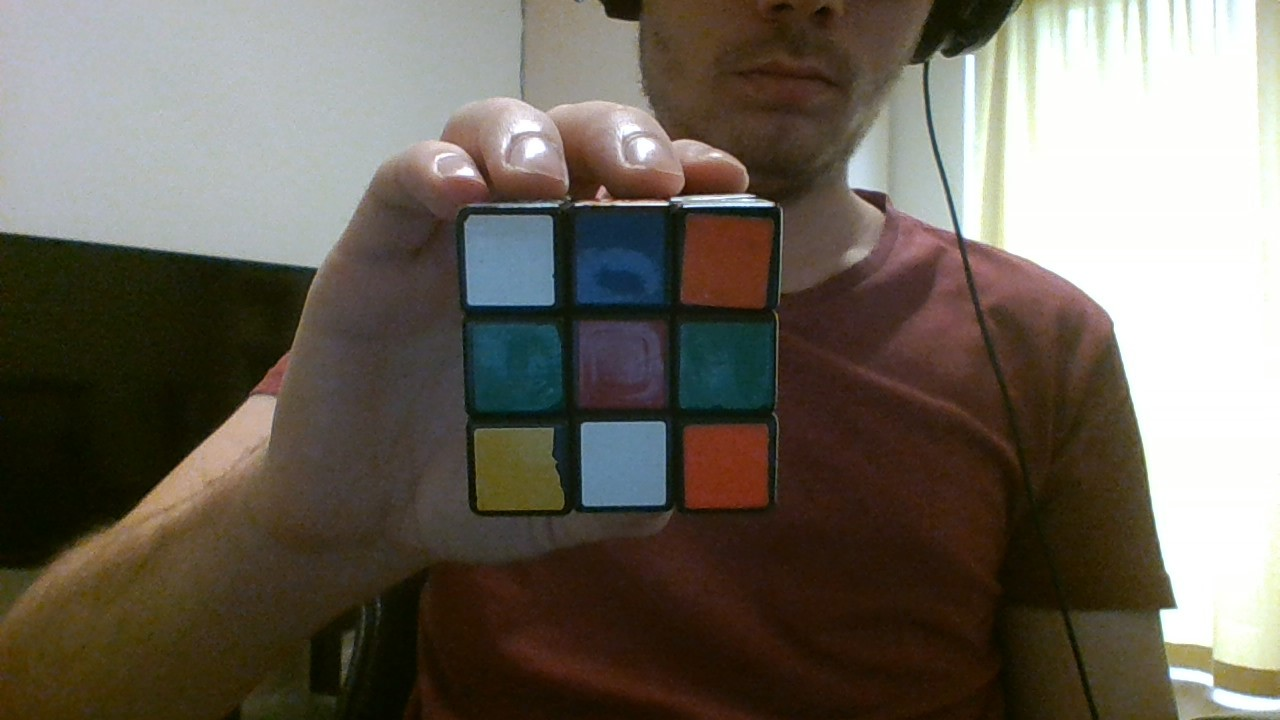
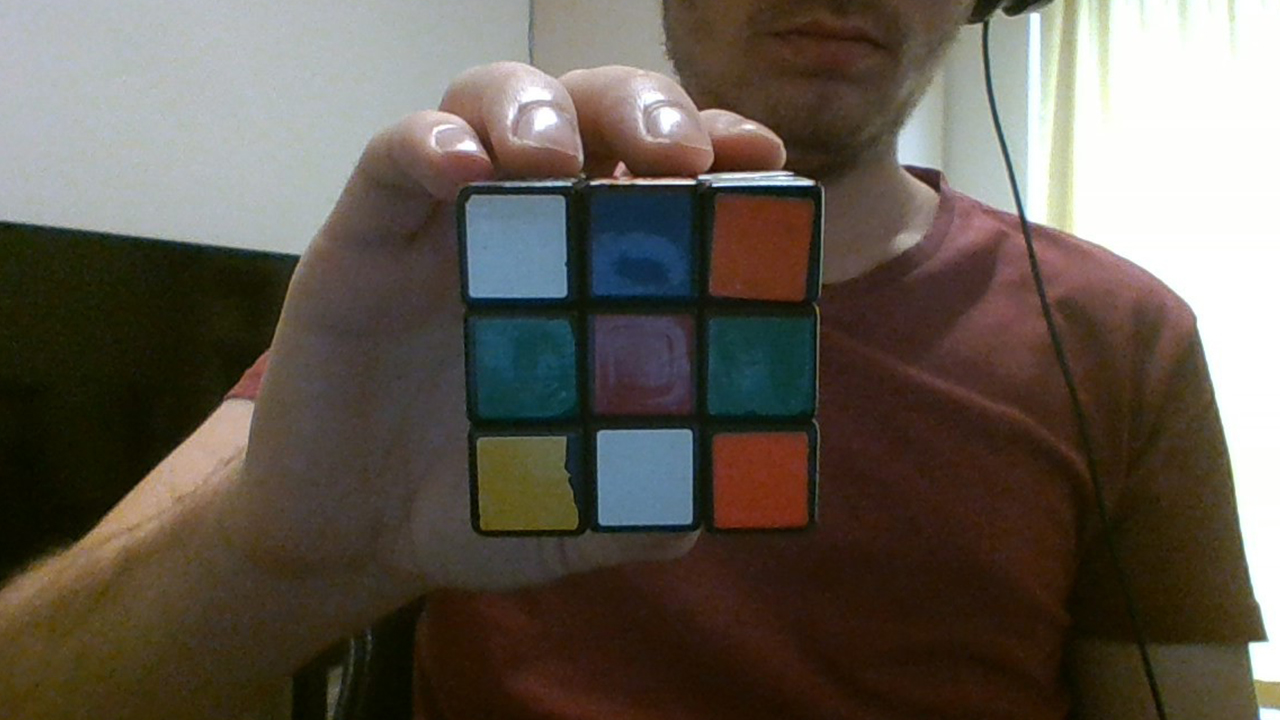
Cube- und Farberkennung läuft

diff --git a/AlphaTests/CubeScan/ImageProcessing/ImageProcessing.java b/AlphaTests/CubeScan/ImageProcessing/ImageProcessing.java
@@ -5,32 +5,32 @@ import org.opencv.core.*;
 import org.opencv.features2d.FeatureDetector;
 import org.opencv.imgproc.Imgproc;
 import java.util.*;
+import static org.opencv.imgproc.Imgproc.rectangle;
 
 public class ImageProcessing implements Observer {
 
     private CubeScanModel model;
 
-    /*
-    private void processBinaryImage() {
-        Mat processMat = model.getOriginalImage().clone();
-        Imgproc.GaussianBlur(doMask(processMat), processMat, new Size(model.getGaBl(), model.getGaBl()), model.getGaBl(), model.getGaBl());
-        Imgproc.medianBlur(processMat, processMat, model.getMeBl());
-        Core.inRange(processMat,
-                new Scalar(model.getGridColors()[2][2].val[0] - 5, model.getGridColors()[2][2].val[1] - 30, model.getGridColors()[2][2].val[2] - 30),
-                new Scalar(model.getGridColors()[2][2].val[0] + 5, model.getGridColors()[2][2].val[1] + 30, model.getGridColors()[2][2].val[2] + 30), processMat);
-        model.setBinaryImage(processMat);
-    }
-    */
+    private int meanColorRect = 60; //TODO Ins Model, meanColorRect % 2 != 0
+
 
     private void readColorsFromGrid() {
-
         Mat frameOfWebcamStream = model.getOriginalImage();
-        double[] color = new double[3];
         Scalar[][] colors = new Scalar[3][3];
         for (int x = 0; x < 3; x++) {
             for (int y = 0; y < 3; y++) {
-                for (int i = 0; i < 3; i++) color[i] = frameOfWebcamStream.get((int)model.getSearchPointGrid()[x][y].y, (int)model.getSearchPointGrid()[x][y].x)[i];
-                colors[x][y] = new Scalar(color[0], color[1], color[2]);
+                Point searchPoint = model.getSearchPointGrid()[x][y];
+                if (model.isUseMeanColor()) {
+                    Mat mask = new Mat(frameOfWebcamStream.height(), frameOfWebcamStream.width(), CvType.CV_8U, new Scalar(0));
+                    rectangle(mask, new Point((int)searchPoint.x - meanColorRect / 2, (int)searchPoint.y - meanColorRect / 2), new Point((int)searchPoint.x + 25, (int)searchPoint.y + 25), new Scalar(255), Core.FILLED);
+                    colors[x][y] = Core.mean(frameOfWebcamStream, mask);
+                } else {
+                    colors[x][y] = new Scalar(
+                            frameOfWebcamStream.get((int) searchPoint.y, (int) searchPoint.x)[0],
+                            frameOfWebcamStream.get((int) searchPoint.y, (int) searchPoint.x)[1],
+                            frameOfWebcamStream.get((int) searchPoint.y, (int) searchPoint.x)[2]
+                    );
+                }
             }
         }
         model.setGridColors(colors);
@@ -40,25 +40,30 @@ public class ImageProcessing implements Observer {
         Mat frameOfWebcamStream = model.getOriginalImage();
         Mat[][] binaryMatArray = new Mat[3][3];
         Mat[][] blobMatArray = new Mat[3][3];
-        int[][] totalFoundBlobs = new int[3][3];
-        List<KeyPoint> foundBlobs;
         MatOfKeyPoint keypoints = new MatOfKeyPoint();
+        List<KeyPoint>[][] totalBlobList = new List[3][3];
         FeatureDetector detector = FeatureDetector.create(FeatureDetector.SIMPLEBLOB);
         detector.read("src/AlphaTests/CubeScan/Resources/SavedData/blobdetectorparams1.xml");
 
         for (int x = 0; x < 3; x++) {
+
             for (int y = 0; y < 3; y++) {
+
+                List<KeyPoint> blobList;
 
                 //Apply mask to image
                 Mat mask = new Mat(frameOfWebcamStream.size(), CvType.CV_8U, new Scalar(0));
-                Imgproc.rectangle(mask, model.getFrameOrigin(), new Point(model.getFrameOrigin().x + model.getSearchFrameSize(),  model.getFrameOrigin().y + model.getSearchFrameSize()), new Scalar(255), Core.FILLED);
+                Imgproc.rectangle(mask, model.getFrameOrigin(), new Point(model.getFrameOrigin().x + model.getSearchFrameSize(), model.getFrameOrigin().y + model.getSearchFrameSize()), new Scalar(255), Core.FILLED);
                 Mat processedFrame = new Mat(frameOfWebcamStream.size(), CvType.CV_8U, new Scalar(0));
                 Imgproc.cvtColor(processedFrame, processedFrame, Imgproc.COLOR_GRAY2BGR);
                 frameOfWebcamStream.copyTo(processedFrame, mask);
 
+                //TODO Blur-Filter dauern lange
+                //TODO Für jedes Bild ein Rangeslider-paar
                 //Image Operations
-                if (model.getGaBl() != 0) Imgproc.GaussianBlur(processedFrame, processedFrame, new Size(model.getGaBl(), model.getGaBl()), model.getGaBl(), model.getGaBl());
-                if (model.getMeBl() != 0) Imgproc.medianBlur(processedFrame, processedFrame, model.getMeBl()); //TODO Median Blur dauert lange
+                if (model.getGaBl() != 0)
+                    Imgproc.GaussianBlur(processedFrame, processedFrame, new Size(model.getGaBl(), model.getGaBl()), model.getGaBl(), model.getGaBl());
+                if (model.getMeBl() != 0) Imgproc.medianBlur(processedFrame, processedFrame, model.getMeBl());
                 Core.inRange(processedFrame,
                         //new Scalar(model.getLoHu(), model.getLoSa(), model.getLoVa()),
                         //new Scalar(model.getHiHu(), model.getHiSa(), model.getHiVa()), processedFrame);
@@ -66,75 +71,65 @@ public class ImageProcessing implements Observer {
                         new Scalar(model.getGridColors()[x][y].val[0] + 20, model.getGridColors()[x][y].val[1] + 70, model.getGridColors()[x][y].val[2] + 70), processedFrame);
                 binaryMatArray[x][y] = processedFrame;
 
-                System.out.println("loHu: " + model.getLoHu() + ", loSa: " + model.getLoSa() + ", loVa: " + model.getLoVa());
-                System.out.println("hiHu: " + model.getHiHu() + ", hiSa: " + model.getHiSa() + ", hiVa: " + model.getHiVa());
-                System.out.println("");
-
                 //Detect Blobs
                 detector.detect(processedFrame, keypoints);
-                foundBlobs = keypoints.toList();
+                blobList = keypoints.toList();
                 Mat blobMat = model.getOriginalImage().clone();
-                for (KeyPoint foundBlob : foundBlobs) Imgproc.circle(blobMat, foundBlob.pt, (int) foundBlob.size / 2, new Scalar(0, 0, 255), 1);
-                totalFoundBlobs[x][y] = foundBlobs.size();
+                for (KeyPoint foundBlob : blobList) Imgproc.circle(blobMat, foundBlob.pt, (int) foundBlob.size / 2, new Scalar(0, 0, 255), 1);
                 Imgproc.cvtColor(blobMat, blobMat, Imgproc.COLOR_HSV2BGR);
                 blobMatArray[x][y] = blobMat;
+
+                totalBlobList[x][y] = blobList;
             }
         }
+
+        int counter = 0;
+
+        for (int x = 0; x < 3; x++) {
+            for (int y = 0; y < 3; y++) {
+                for (int i = 0; i < totalBlobList[x][y].size(); i++) {
+                    Point BlobPosition = totalBlobList[x][y].get(i).pt;
+                    Point girdPos = model.getSearchPointGrid()[x][y];
+
+                    if (BlobPosition.x < girdPos.x - meanColorRect / 2) continue;
+                    if (BlobPosition.x > girdPos.x + meanColorRect / 2) continue;
+                    if (BlobPosition.y < girdPos.y - meanColorRect / 2) continue;
+                    if (BlobPosition.y > girdPos.y + meanColorRect / 2) continue;
+                    counter++;
+                }
+            }
+        }
+
+        if (counter > 7) {
+            System.out.println("-------------------------------");
+            System.out.println("Cube found: " + counter + " / 9");
+            System.out.print("\n");
+            for (int x = 0; x < 3; x++) {
+                for (int y = 0; y < 3; y++) {
+                    System.out.print(colorDetection(model.getGridColors()[x][y]));
+                    if (y < 2) System.out.print(", ");
+                }
+                System.out.print("\n");
+            }
+            System.out.println("-------------------------------");
+        }
+        else System.out.println("No Cube found: " + counter + " / 9");
+
         model.setBinaryImages(binaryMatArray);
         model.setBlobImages(blobMatArray);
-        model.setFoundBlobs(totalFoundBlobs);
         model.updateImageViews();
     }
 
-    /*
-    private void blobDetector() {
-        Mat binaryMat = model.getBinaryImage().clone();
-        Mat blobMat = model.getOriginalImage().clone();
-        List<KeyPoint> foundBlobs;
-        FeatureDetector detector = FeatureDetector.create(FeatureDetector.SIMPLEBLOB);
-        detector.read("src/AlphaTests/CubeScan/Resources/SavedData/blobdetectorparams1.xml");
-        MatOfKeyPoint keypoints = new MatOfKeyPoint();
-        detector.detect(binaryMat, keypoints);
-        foundBlobs = keypoints.toList();
-        model.setFoundBlobs(foundBlobs.size());
-        keypoints.release();
-        for (int i = 0; i < foundBlobs.size(); i++) Imgproc.circle(blobMat, foundBlobs.get(i).pt, (int)foundBlobs.get(i).size/2, new Scalar(100, 100, 100), 2);
-        model.setBlobImage(blobMat);
+    private String colorDetection(Scalar color) {
+        if (color.val[1] < 100 && color.val[2] > 120) return "WHITE";
+        else if (color.val[0] < 5) return "RED";
+        else if (color.val[0] < 15) return "ORANGE";
+        else if (color.val[0] < 34) return "YELLOW";
+        else if (color.val[0] < 100) return "GREEN";
+        else if (color.val[0] < 128) return "BLUE";
+        else if (color.val[0] < 181) return "RED";
+        return "NO COLOR DETECTED";
     }
-    */
-
-    /*
-    private Mat doMask(Mat inputMat) {
-        Mat mask = new Mat(inputMat.size(), CvType.CV_8U, new Scalar(0));
-        Imgproc.rectangle(mask, model.getFrameOrigin(), new Point(model.getFrameOrigin().x + 350,  model.getFrameOrigin().y + 350), new Scalar(255), Core.FILLED);
-
-        Mat outputMat = new Mat(inputMat.size(), CvType.CV_8U, new Scalar(0));
-
-        mask.convertTo(mask, CvType.CV_8U);
-        inputMat.convertTo(inputMat, CvType.CV_8U);
-        Imgproc.cvtColor(outputMat, outputMat, COLOR_GRAY2BGR);
-
-        inputMat.copyTo(outputMat, mask);
-        return outputMat;
-    }
-    */
-
-    /*
-    private void getGridColors() {
-        Mat mat = model.getOriginalImage().clone();
-        Scalar[][] colors = new Scalar[3][3];
-        for (int x = 0; x < 3; x++) {
-            for (int y = 0; y < 3; y++) {
-                double[] color = new double[3];
-                for (int i = 0; i < 3; i++) {
-                    color[i] = mat.get((int)model.getSearchPointGrid()[x][y].y, (int)model.getSearchPointGrid()[x][y].x)[i];
-                }
-                colors[x][y] = new Scalar(color[0], color[1], color[2]);
-            }
-        }
-        model.setGridColors(colors);
-    }
-    */
 
     @Override
     public void update(Observable o, Object arg) {

diff --git a/AlphaTests/CubeScan/Models/CubeScanModel.java b/AlphaTests/CubeScan/Models/CubeScanModel.java
@@ -1,25 +1,29 @@
 package AlphaTests.CubeScan.Models;
 
+import org.opencv.core.KeyPoint;
 import org.opencv.core.Mat;
 import org.opencv.core.Point;
 import org.opencv.core.Scalar;
+
+import java.util.List;
 import java.util.Observable;
 
 public class CubeScanModel extends Observable {
 
-    private Point frameOrigin = new Point(432, 181);
+    private Point frameOrigin = new Point(466, 185);
     private int searchFrameSize = 350;
     private Point[][] searchPointGrid = new Point[][] {
-            {new Point(507, 242), new Point(620, 242), new Point(731, 242)},
-            {new Point(507, 359), new Point(620, 359), new Point(731, 359)},
-            {new Point(507, 475), new Point(620, 475), new Point(731, 475)}
+            {new Point(524, 243), new Point(640, 243), new Point(757, 243)},
+            {new Point(524, 359), new Point(640, 359), new Point(757, 359)},
+            {new Point(524, 477), new Point(640, 477), new Point(757, 477)}
     };
     private Scalar[][] gridColors = new Scalar[3][3];
     private int loHu, hiHu, loSa, hiSa, loVa, hiVa;
     private int gaBl = 5, meBl = 5;
-    private int[][] foundBlobs;
+    private List<List<KeyPoint>> foundBlobsList;
     private Mat originalImage;
     private Mat[][] blobImages, binaryImages;
+    private boolean useMeanColor = true;
 
 
     public void loadNewImage() {
@@ -85,13 +89,6 @@ public class CubeScanModel extends Observable {
         this.meBl = value;
     }
 
-    public int[][] getFoundBlobs() {
-        return this.foundBlobs;
-    }
-    public void setFoundBlobs(int[][] array) {
-        this.foundBlobs = array;
-    }
-
     public Mat getOriginalImage() {
         return this.originalImage;
     }
@@ -132,6 +129,24 @@ public class CubeScanModel extends Observable {
         this.gridColors = colors;
         setChanged();
         notifyObservers("updateSlider");
+    }
+
+    public List<List<KeyPoint>> getFoundBlobsList() {
+        return foundBlobsList;
+    }
+    public void setFoundBlobsList(List<List<KeyPoint>> foundBlobsList) {
+        this.foundBlobsList = foundBlobsList;
+    }
+
+    public boolean isUseMeanColor() {
+        return useMeanColor;
+    }
+    public void setUseMeanColor(boolean useMeanColor) {
+        this.useMeanColor = useMeanColor;
+        setChanged();
+        notifyObservers("readColorsFromGrid");
+        setChanged();
+        notifyObservers("processImages");
     }
 
     public void updateImageViews() {

diff --git a/AlphaTests/CubeScan/GUI/CubeScanController.java b/AlphaTests/CubeScan/GUI/CubeScanController.java
@@ -41,7 +41,7 @@ public class CubeScanController implements Observer, Initializable {
     @FXML
     private Text tx_lowHue, tx_highHue, tx_lowSat, tx_highSat, tx_lowVal, tx_highVal, tx_gaussKernel, tx_medianKernel;
     @FXML
-    private Button btn_toggleImageViews;
+    private Button btn_toggleImageViews, btn_toggleuseMeanColor;
     @FXML
     private AnchorPane sliderPaneHue, sliderPaneSat, sliderPaneVal;
 
@@ -172,6 +172,17 @@ public class CubeScanController implements Observer, Initializable {
             gp_binaryGrid.setVisible(true);
             gp_blobGrid.setVisible(false);
             btn_toggleImageViews.setText("show blobs");
+        }
+    }
+
+    @FXML
+    private void toggleUseMeanColor() {
+        if (model.isUseMeanColor()) {
+            btn_toggleuseMeanColor.setText("don't use mean color");
+            model.setUseMeanColor(false);
+        } else {
+            btn_toggleuseMeanColor.setText("use mean color");
+            model.setUseMeanColor(true);
         }
     }
 

diff --git a/AlphaTests/CubeScan/CubeScanTest.java b/AlphaTests/CubeScan/CubeScanTest.java
@@ -227,7 +227,7 @@ public class CubeScanTest extends Application {
     }
 
     private void loadImage() {
-        imgMat = imread("src/AlphaTests/CubeScan/Resources/Assets/cubeOrange.jpg", IMREAD_COLOR);
+        imgMat = imread("src/AlphaTests/CubeScan/Resources/Assets/WIN_20191108_11_57_09_Pro.jpg", IMREAD_COLOR);
         if (imgMat.empty()) System.out.println("Image was not read");
     }
 
